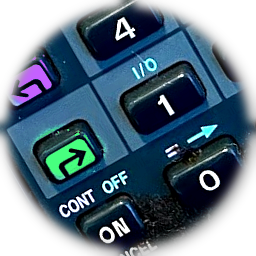
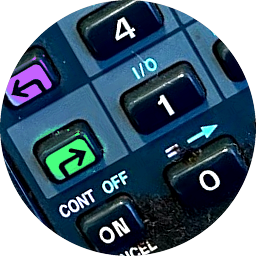
La labortabla cirklo tuŝas la kvar randojn de la ikono
La plene opaka cirklo estis 87-89% de la tolo ĉe ĉiu grando: ringo de nenio
larĝa 14 bilderojn ĉe 256 kaj 2 ĉe 32. FILL_DESKTOP jam estas 1,0, do la kaŭzo
ne kuŝis en la skalo sed en la rando - erozio je la malakriga radiuso sekvata de
malakrigo movas la plene opakan limon internen je proksimume 2r.

La masko nun estas superspecimena: elipso kvaroble granda, malgrandigita per
LANCZOS. Tio donas glatan randon sen ŝrumpo, do la du ecoj ne plu estas elekto
inter si. Mezurite ĉe ĉiuj sep grandoj: la limkesto estas la tuta tolo, kaj la
alfao ĉe la kvar mezpunktoj de la randoj kuŝas inter 250 kaj 255.

La ombro foriras kun la enŝovo. Ĝi estas deŝovita je s/128 kaj s/96 kaj
malakrigita, do ĝi bezonas lokon ekster la silueto, kaj cirklo kiu tuŝas la
kvar randojn havas nenian.

La adapta androida antaŭaĵo ne moviĝas: ĝi pasas tra FILL_ADAPTIVE kun
circle=False kaj sen fadenado, do la lanĉila ikono restas kia ĝi estas.

Claude-Session: https://claude.ai/code/session_01XrRjuysMJnq647N6PjJ5E5

Changed region(s): [[0.0, 0.0, 1.0, 1.0]]

diff --git a/tools/make-icon.py b/tools/make-icon.py
@@ -279,14 +279,27 @@ def compose(art: Image.Image, s: int, fill: float, background,
 
     alpha = a.getchannel("A")
     if circle:
-        mask = Image.new("L", a.size, 0)
-        ImageDraw.Draw(mask).ellipse((0, 0, a.width - 1, a.height - 1), fill=255)
-        alpha = Image.composite(alpha, Image.new("L", a.size, 0), mask)
+        # LA CIRKLO TUŜAS LA KVAR RANDOJN, kaj tial ĉi tie ne plu estas erozio.
+        # Mezurite antaŭ la ŝanĝo: la plene opaka cirklo estis 87-89% de la tolo
+        # ĉe ĉiu grando - ringo de nenio larĝa 14 bilderojn ĉe 256, 2 ĉe 32 - kaj
+        # la kaŭzo ne estis FILL_DESKTOP, kiu jam estas 1,0, sed la erozio sub
+        # ĉi tiu bloko, kiu retiris la opakan randon je la malakriga radiuso.
+        #
+        # SUPERSPECIMENA MASKO anstataŭe: ImageDraw.ellipse ne glatigas, do
+        # elipso kvaroble granda, malgrandigita per LANCZOS, donas glatan randon
+        # KIU NE ŜRUMPAS. Glateco sen perdo de radiuso, kio estas ĝuste kion la
+        # erozio-kaj-malakrigo aĉetis je la prezo de la radiuso.
+        ss = 4
+        big = Image.new("L", (a.width * ss, a.height * ss), 0)
+        ImageDraw.Draw(big).ellipse((0, 0, a.width * ss - 1, a.height * ss - 1),
+                                    fill=255)
+        alpha = Image.composite(alpha, Image.new("L", a.size, 0),
+                                big.resize(a.size, Image.LANCZOS))
 
     # Molaj randoj. Erozii je la malakriga radiuso, poste malakrigi, por ke la
     # tuta fadeno vivu interne de la bildo kaj la 100%-opaka parto ankoraŭ
     # atingu preskaŭ ĝis la vera rando.
-    if feather:
+    if feather and not circle:
         r = max(1, round(s * FEATHER))
         alpha = alpha.filter(ImageFilter.MinFilter(2 * r + 1))
         alpha = alpha.filter(ImageFilter.GaussianBlur(r))
@@ -295,7 +308,9 @@ def compose(art: Image.Image, s: int, fill: float, background,
     # Malluma fotografaĵo tamen bezonas randon por legiĝi kiel objekto, sur
     # mezhela fono aŭ sur malluma taskostrio en kiun ĝi alie dissolviĝus. Prenita
     # el la moligita alfao, do la ombro sekvas la saman konturon.
-    if feather:
+    # Cirklo kiu tuŝas la randojn ne havas lokon por ombro ekster si: ĉiu
+    # bildero de ĝi kuŝus ekster la tolo aŭ sub la cirklo mem.
+    if feather and not circle:
         shadow = Image.new("RGBA", (s, s), (0, 0, 0, 0))
         shadow.paste((0, 0, 0, 130), (x + max(1, s // 128), y + max(1, s // 96)), a)
         canvas = Image.alpha_composite(
